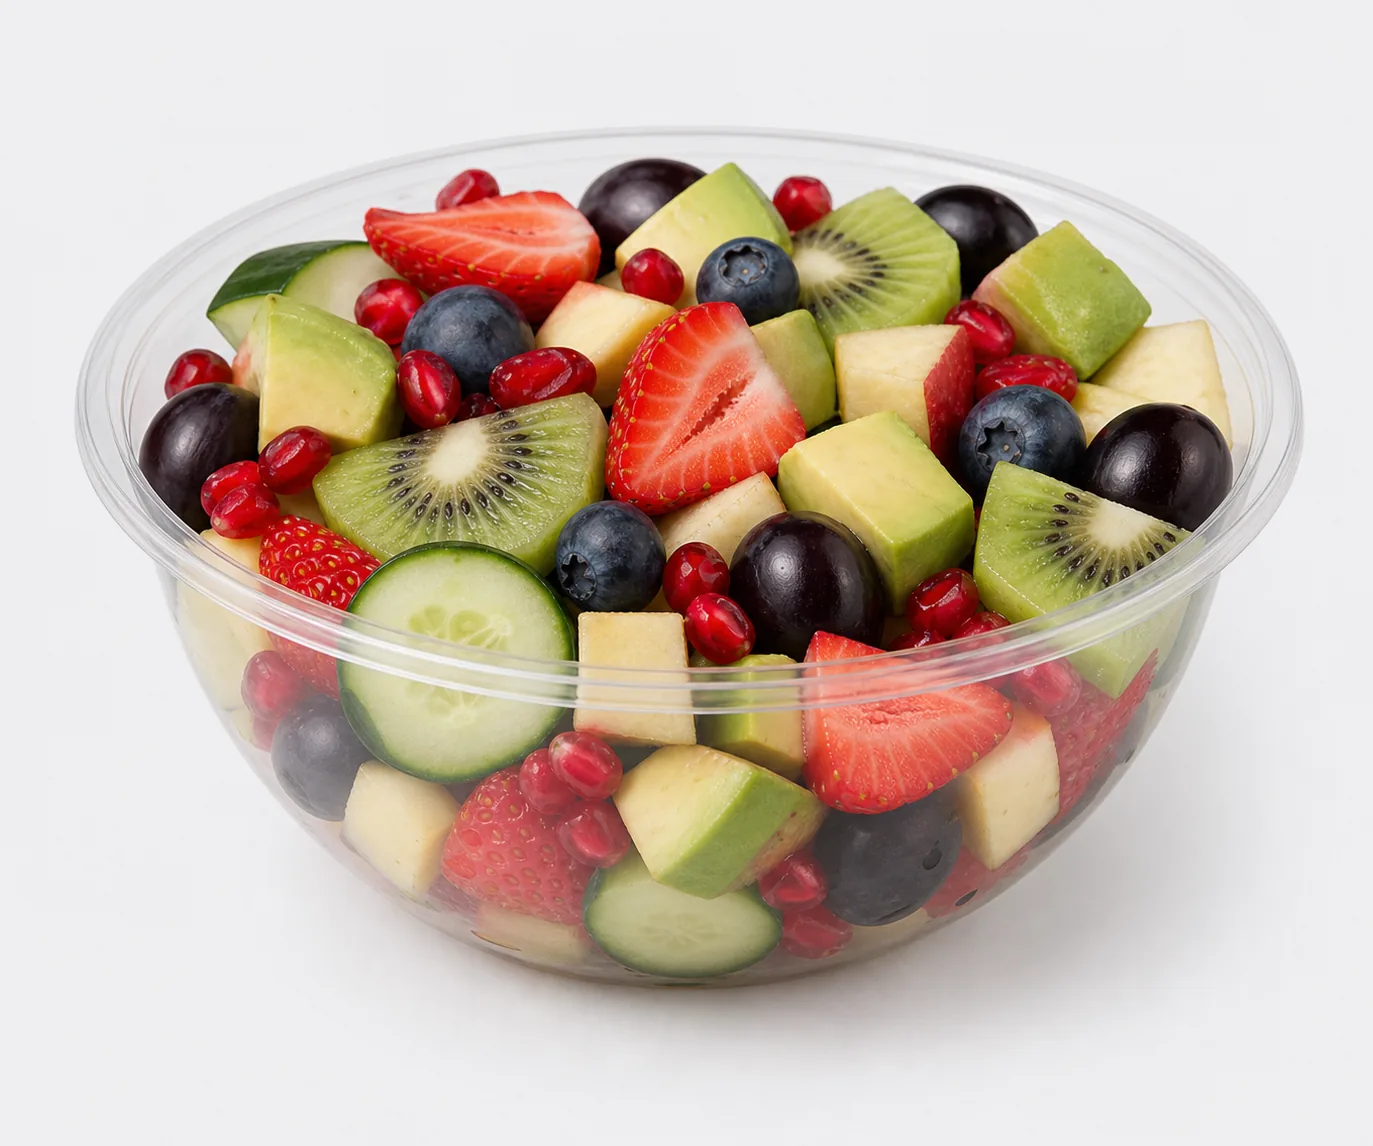
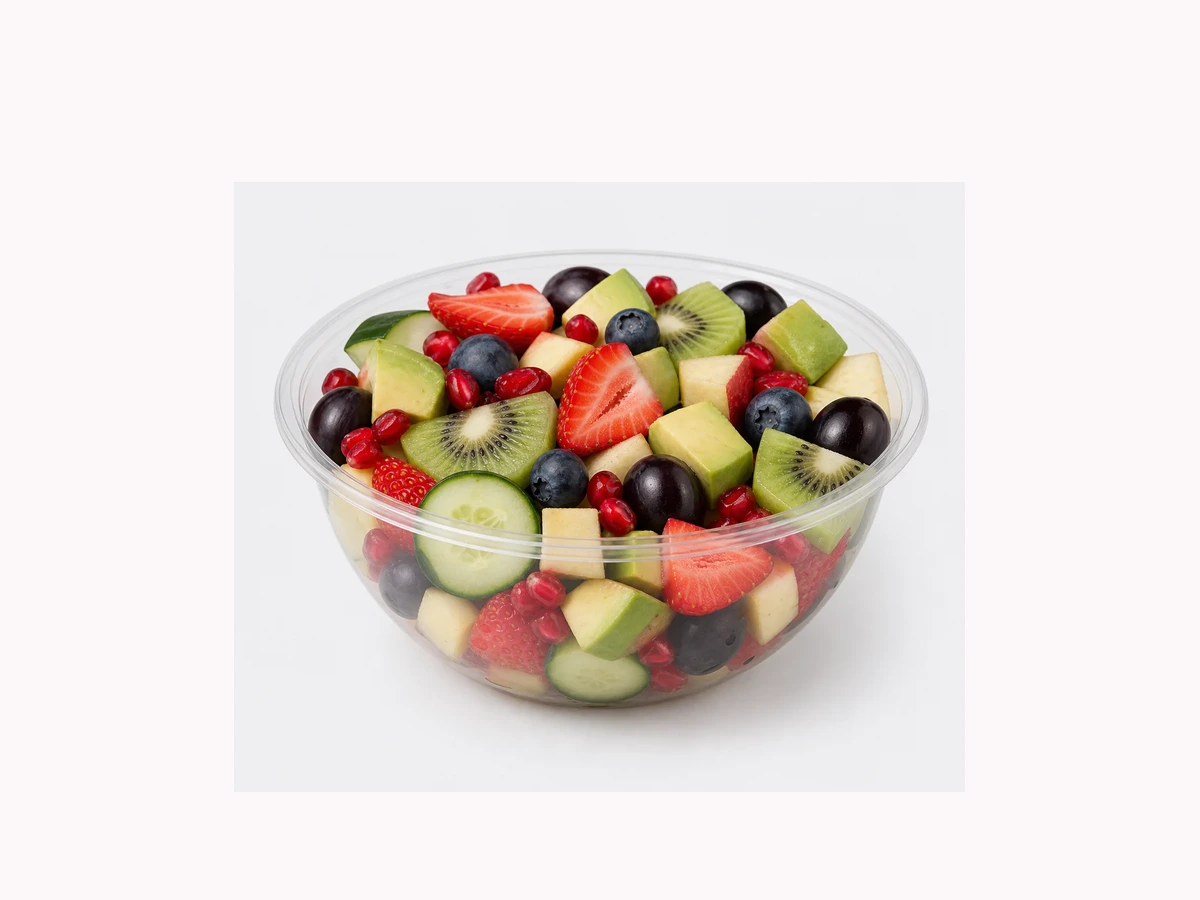
improved product images

diff --git a/js/products.js b/js/products.js
@@ -10,8 +10,6 @@ const gymMenuProducts = [
         image: 'menu/Superme weight gain menu/IMG_8182.webp',
         images: [
             'menu/Superme weight gain menu/IMG_8182.webp',
-            'menu/Superme weight gain menu/IMG_8186.webp',
-            'menu/Superme weight gain menu/IMG_8190.webp',
             'menu/Superme weight gain menu/IMG_8198.webp'
         ],
         price: 199,
@@ -48,7 +46,6 @@ const gymMenuProducts = [
         image: 'menu/Supreme weight loss/IMG_8273.webp',
         images: [
             'menu/Supreme weight loss/IMG_8273.webp',
-            'menu/Supreme weight loss/IMG_8278.webp',
             'menu/Supreme weight loss/IMG_8284.webp'
         ],
         price: 199,
@@ -84,9 +81,8 @@ const gymMenuProducts = [
         id: '1',
         name: 'Regular Weight Gain Pot',
         category: 'Regular Box',
-        image: 'menu/Weight gain regular/IMG_8150.webp',
+        image: 'menu/Weight gain regular/IMG_8145.webp',
         images: [
-            'menu/Weight gain regular/IMG_8150.webp',
             'menu/Weight gain regular/IMG_8145.webp',
             'menu/Weight gain regular/IMG_8144.webp'
         ],
@@ -120,7 +116,6 @@ const gymMenuProducts = [
         image: 'menu/Weight loss regular/IMG_8230.webp',
         images: [
             'menu/Weight loss regular/IMG_8230.webp',
-            'menu/Weight loss regular/IMG_8228.webp',
             'menu/Weight loss regular/IMG_8222.webp'
         ],
         price: 149,
@@ -154,8 +149,6 @@ const gymMenuProducts = [
         image: 'menu/healthy workday menu/IMG_8325.webp',
         images: [
             'menu/healthy workday menu/IMG_8325.webp',
-            'menu/healthy workday menu/IMG_8320.webp',
-            'menu/healthy workday menu/IMG_8323.webp',
             'menu/healthy workday menu/IMG_8327.webp'
         ],
         price: 69,

diff --git a/js/menu.js b/js/menu.js
@@ -318,7 +318,7 @@ function buildCard(p) {
     return `
     <div class="product-card bg-white rounded-[28px] border border-pink-100/90 overflow-hidden shadow-xs hover:shadow-xl transition-all duration-300 flex flex-col group" data-category="${p.category}" data-id="${p.id}">
         <!-- Header Image with Quick-View Trigger & Carousel -->
-        <div class="product-image-wrap cursor-pointer relative overflow-hidden bg-gradient-to-tr from-purple-50/50 to-pink-50/30 select-none" onclick="openProductModal('${p.id}')" title="Click to view full details & gallery">
+        <div class="product-image-wrap cursor-pointer relative overflow-hidden bg-[#fcf8fa] select-none" onclick="openProductModal('${p.id}')" title="Click to view full details & gallery">
             <img id="card-img-${p.id}" class="product-image group-hover:scale-105 transition-all duration-500" src="${currentImg}" alt="${p.name}">
             
             ${carouselArrowsHTML}

diff --git a/css/styles.css b/css/styles.css
@@ -1899,7 +1899,7 @@ textarea::placeholder {
 .product-image-wrap {
     position: relative;
     aspect-ratio: 4 / 3;
-    background: #f5e9ed;
+    background: #fcf8fa;
     overflow: hidden;
 }
 
